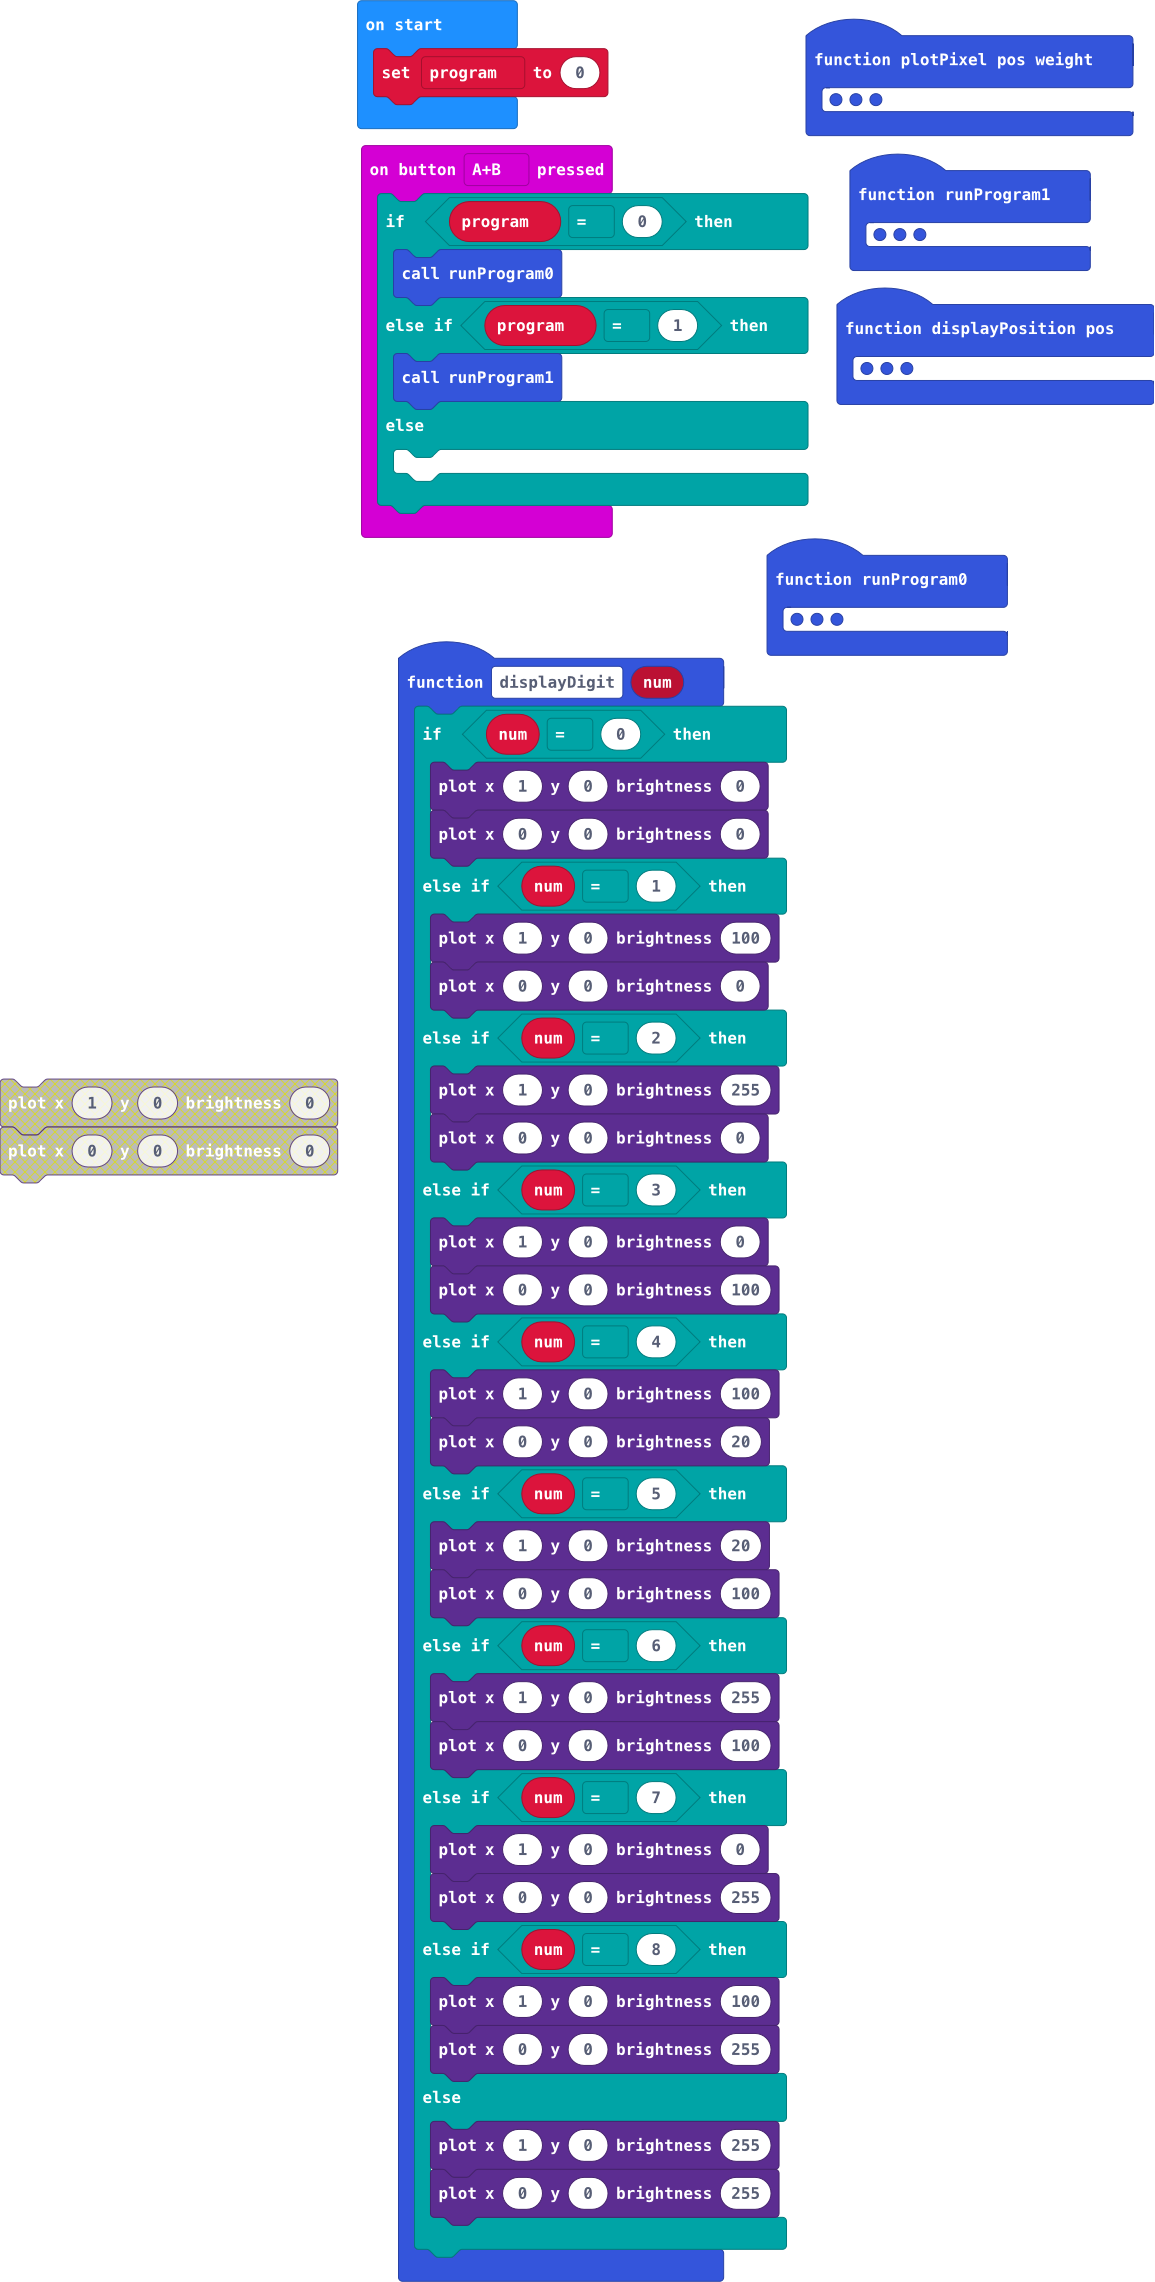
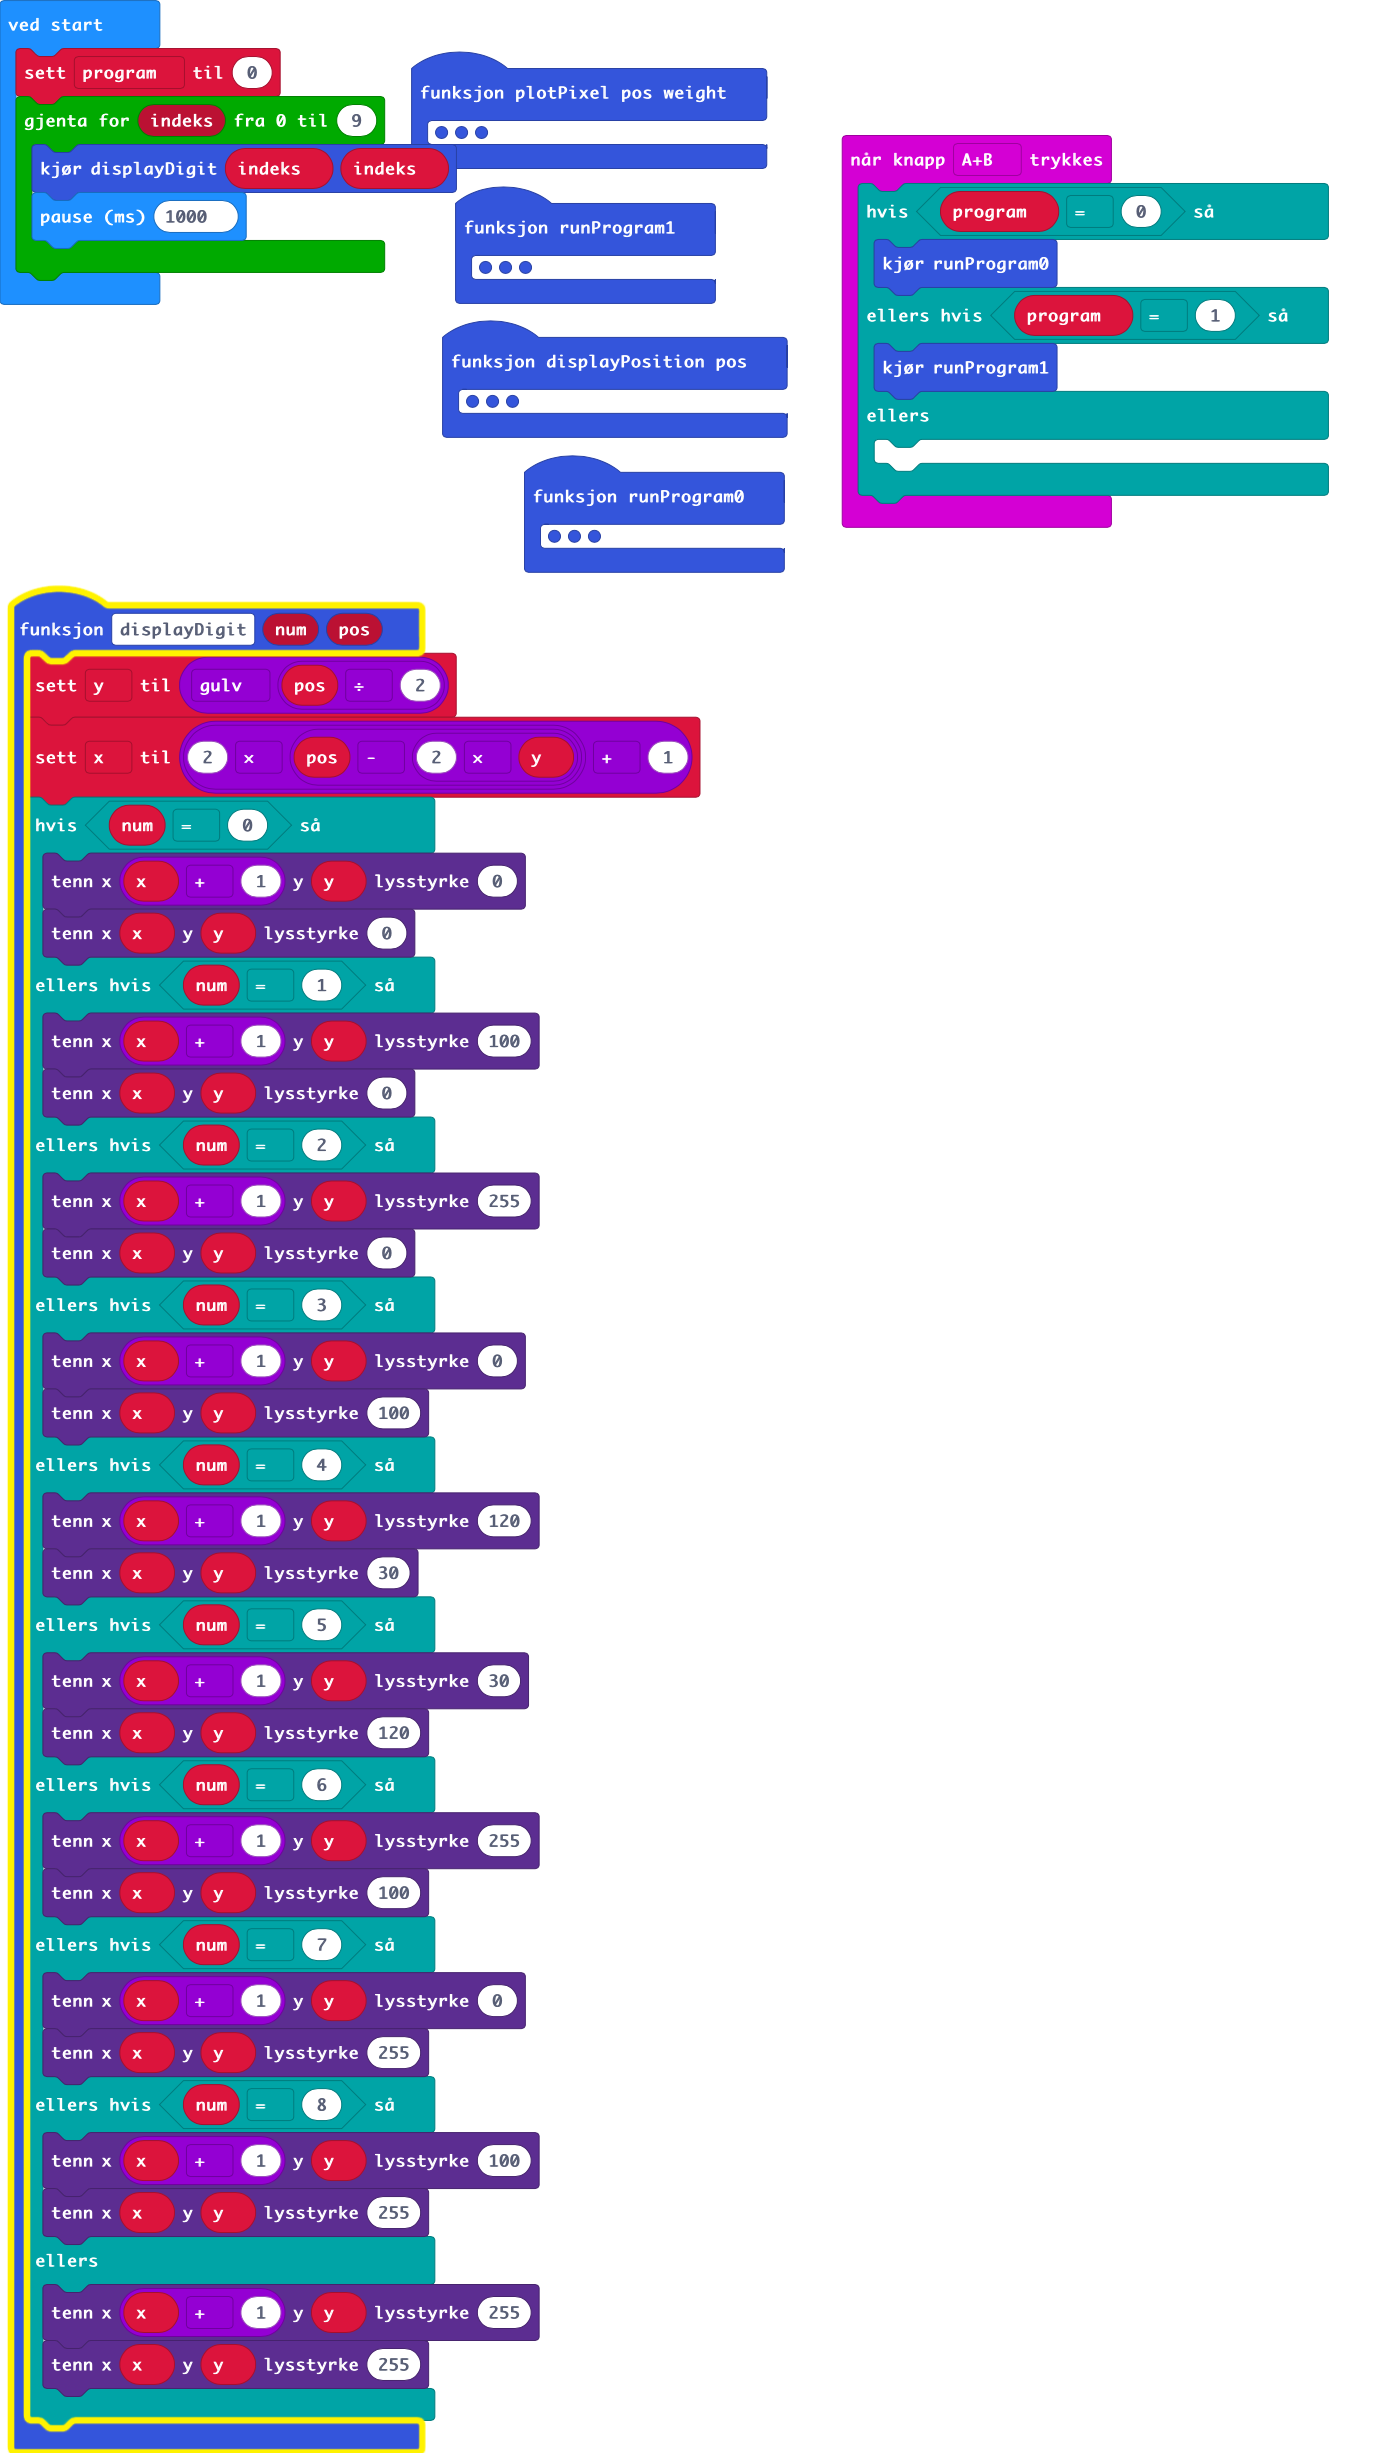
DisplayDigit done (first version). Some test code

diff --git a/main.ts b/main.ts
@@ -1,7 +1,6 @@
 function runProgram0 () {
     digit = 0
     while (program == 0) {
-        displayDigit(digit)
         basic.pause(2000)
         digit += 1
         if (digit > 9) {
@@ -37,37 +36,39 @@ function plotPixel (pos: number, weight: number) {
         led.plotBrightness(0, 16 - pos, weight)
     }
 }
-function displayDigit (num: number) {
+function displayDigit (num: number, pos: number) {
+    y = Math.floor(pos / 2)
+    x = 2 * (pos - 2 * y) + 1
     if (num == 0) {
-        led.plotBrightness(1, 0, 0)
-        led.plotBrightness(0, 0, 0)
+        led.plotBrightness(x + 1, y, 0)
+        led.plotBrightness(x, y, 0)
     } else if (num == 1) {
-        led.plotBrightness(1, 0, 100)
-        led.plotBrightness(0, 0, 0)
+        led.plotBrightness(x + 1, y, 100)
+        led.plotBrightness(x, y, 0)
     } else if (num == 2) {
-        led.plotBrightness(1, 0, 255)
-        led.plotBrightness(0, 0, 0)
+        led.plotBrightness(x + 1, y, 255)
+        led.plotBrightness(x, y, 0)
     } else if (num == 3) {
-        led.plotBrightness(1, 0, 0)
-        led.plotBrightness(0, 0, 100)
+        led.plotBrightness(x + 1, y, 0)
+        led.plotBrightness(x, y, 100)
     } else if (num == 4) {
-        led.plotBrightness(1, 0, 100)
-        led.plotBrightness(0, 0, 20)
+        led.plotBrightness(x + 1, y, 120)
+        led.plotBrightness(x, y, 30)
     } else if (num == 5) {
-        led.plotBrightness(1, 0, 20)
-        led.plotBrightness(0, 0, 100)
+        led.plotBrightness(x + 1, y, 30)
+        led.plotBrightness(x, y, 120)
     } else if (num == 6) {
-        led.plotBrightness(1, 0, 255)
-        led.plotBrightness(0, 0, 100)
+        led.plotBrightness(x + 1, y, 255)
+        led.plotBrightness(x, y, 100)
     } else if (num == 7) {
-        led.plotBrightness(1, 0, 0)
-        led.plotBrightness(0, 0, 255)
+        led.plotBrightness(x + 1, y, 0)
+        led.plotBrightness(x, y, 255)
     } else if (num == 8) {
-        led.plotBrightness(1, 0, 100)
-        led.plotBrightness(0, 0, 255)
+        led.plotBrightness(x + 1, y, 100)
+        led.plotBrightness(x, y, 255)
     } else {
-        led.plotBrightness(1, 0, 255)
-        led.plotBrightness(0, 0, 255)
+        led.plotBrightness(x + 1, y, 255)
+        led.plotBrightness(x, y, 255)
     }
 }
 input.onButtonPressed(Button.AB, function () {
@@ -79,6 +80,8 @@ input.onButtonPressed(Button.AB, function () {
     	
     }
 })
+let x = 0
+let y = 0
 let time = 0
 let start = 0
 let weight = 0
@@ -86,3 +89,7 @@ let floorpos = 0
 let digit = 0
 let program = 0
 program = 0
+for (let indeks = 0; indeks <= 9; indeks++) {
+    displayDigit(indeks, indeks)
+    basic.pause(1000)
+}
